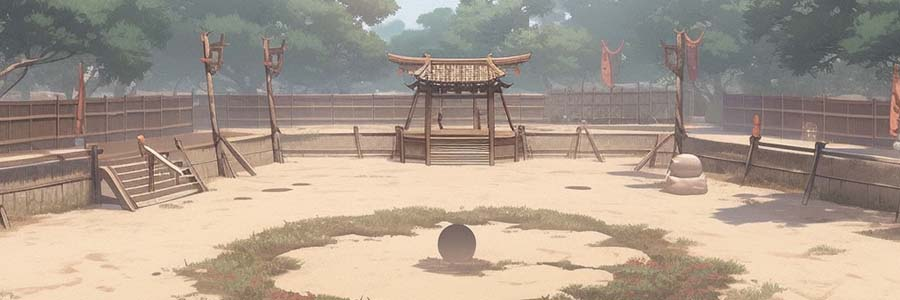
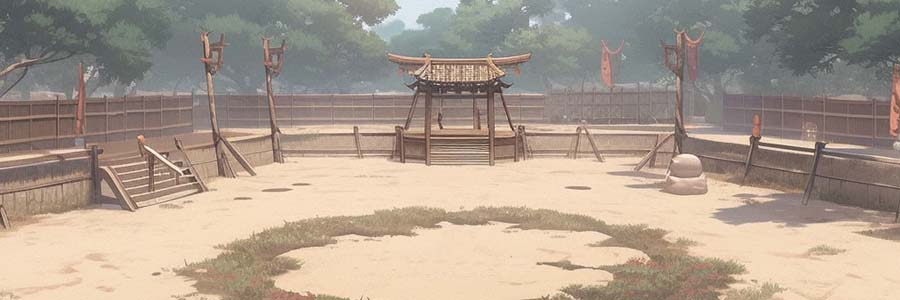
WIP

Changed region(s): [[0.4356, 0.75, 0.5911, 0.93]]

diff --git a/db/migrations/20231222051430_a_i_update_migration.php b/db/migrations/20231222051430_a_i_update_migration.php
@@ -80,6 +80,12 @@ final class AIUpdateMigration extends AbstractMigration
             (3, 600, 'Bloodline Mystic', 1.00, 50, 0.65, 0.65, 0.65, 0.40, 0.40, 0.00, 0.00, 0.00, '[{\"name\":\"Into the Mirror World\",\"battle_text\":\"Shimmering fragments trail [opponent]&#039;s hands as they open a reflective portal before them, swirling with iridescent colors. [player] is momentarily dazzled as they&#039;re drawn into the mirror realm, a twisted reflected of reality where [opponent]&#039;s strength is amplified as [player]&#039;s chakra is slowly drained by the countless mirrors that surround them.\",\"power\":\"4\",\"cooldown\":\"4\",\"jutsu_type\":\"ninjutsu\",\"use_type\":\"indirect\",\"effect\":\"offense_nerf\",\"effect_amount\":\"42\",\"effect_length\":\"2\",\"effect2\":\"ninjutsu_boost\",\"effect2_amount\":\"83\",\"effect2_length\":\"2\"},{\"name\":\"Self Reflection\",\"battle_text\":\"[opponent] conjures an ethereal mirror which flawlessly reflects [player]&#039;s attack, fracturing into a thousand shards that scatter violently. From the glittering light forms an identical copy of [player], mirroring their every move and blurring the lines between reality and illusion.\",\"power\":\"2.5\",\"cooldown\":\"4\",\"jutsu_type\":\"ninjutsu\",\"use_type\":\"indirect\",\"effect\":\"reflect\",\"effect_amount\":\"83\",\"effect_length\":\"1\",\"effect2\":\"none\",\"effect2_amount\":\"0\",\"effect2_length\":\"0\"},{\"name\":\"Ethereal Shards\",\"battle_text\":\"[opponent] snaps their fingers, causing the air to fracture and ripple. With a flourish, the distortion shatters into countless ethereal shards, hanging momentarily in the air before surging toward [player] with unerring precision.\",\"power\":\"2\",\"cooldown\":\"0\",\"jutsu_type\":\"ninjutsu\",\"use_type\":\"projectile\",\"effect\":\"residual_damage\",\"effect_amount\":\"83\",\"effect_length\":\"1\",\"effect2\":\"none\",\"effect2_amount\":\"0\",\"effect2_length\":\"0\"}]', '', '', 50, 1, 'hard', 1, 0, 'images/ai_avatars/BloodlineMystic.png');
 
             -- Update table ai_opponents - Jonin Arena
+            INSERT INTO `ai_opponents` (`ai_id`, `rank`, `money`, `name`, `max_health`, `level`, `ninjutsu_skill`, `genjutsu_skill`, `taijutsu_skill`, `cast_speed`, `speed`, `strength`, `intelligence`, `willpower`, `moves`, `shop_jutsu`, `shop_jutsu_priority`, `battle_iq`, `scaling`, `difficulty_level`, `arena_enabled`, `is_patrol`, `avatar_link`) VALUES
+            (3412, 4, 450, 'Rival Jonin', 1.00, 51, 0.00, 0.00, 0.70, 0.00, 0.35, 0.00, 0.00, 0.00, '[]', '4, 59, 99, 103, 73, 72, 83, 82, 84, 77, 81', '59, 103, 77, 99', 50, 1, 'normal', 1, 0, 'images/ai_avatars/TaijutsuRivalJonin.png'),
+            (3413, 4, 450, 'Rival Jonin', 1.00, 51, 0.70, 0.00, 0.00, 0.35, 0.00, 0.00, 0.00, 0.00, '[]', '4, 60, 70, 75, 74, 67, 68, 97, 93, 69, 98', '60', 50, 1, 'normal', 1, 0, 'images/ai_avatars/NinjutsuRivalJonin.png'),
+            (3414, 4, 450, 'Rival Jonin', 1.00, 51, 0.00, 0.70, 0.00, 0.35, 0.00, 0.00, 0.00, 0.00, '[]', '4, 61, 85, 79, 80, 49, 78, 76, 86, 109', '61', 50, 1, 'normal', 1, 0, 'images/ai_avatars/GenjutsuRivalJonin.png'),
+            (3437, 4, 0, 'Training Dummy', 1.00, 51, 0.00, 0.00, 0.00, 0.00, 0.00, 0.00, 0.00, 0.00, '[{\"name\":\"\",\"battle_text\":\"[opponent] stares blankly at [player], remaining upright in spite of the pummeling it takes all too happily.\",\"power\":\"1\",\"cooldown\":\"0\",\"jutsu_type\":\"taijutsu\",\"use_type\":\"indirect\",\"effect\":\"none\",\"effect_amount\":\"0\",\"effect_length\":\"0\",\"effect2\":\"none\",\"effect2_amount\":\"0\",\"effect2_length\":\"0\"}]', '', '', 0, 1, 'easy', 1, 0, 'images/ai_avatars/TrainingDummy.png'),
+            (3427, 4, 900, 'Elemental Savant', 1.00, 100, 0.70, 0.70, 0.70, 0.40, 0.40, 0.00, 0.00, 0.00, '[{\"name\":\"Hellfire Rain\",\"battle_text\":\"Flames begin to flow between [opponent]&#039;s fingertips like a stream of energy, flowing with the grace of a gentle river. The pressure builds as droplets of liquid fire spray upward, falling as a destructive torrent that sets the battlefield ablaze.\",\"power\":\"4\",\"cooldown\":\"2\",\"jutsu_type\":\"ninjutsu\",\"use_type\":\"projectile\",\"element\":\"Fire\",\"effect\":\"vulnerability\",\"effect_amount\":\"17\",\"effect_length\":\"2\",\"effect2\":\"water_vulnerability\",\"effect2_amount\":\"42\",\"effect2_length\":\"1\"},{\"name\":\"Wispstorm\",\"battle_text\":\"[opponent] breaths life into a roaring typhoon that flickers and distorts the air around them, building into a towering cyclone that slams down from above at [player].\",\"power\":\"4\",\"cooldown\":\"2\",\"jutsu_type\":\"ninjutsu\",\"use_type\":\"projectile\",\"element\":\"Wind\",\"effect\":\"evasion_nerf\",\"effect_amount\":\"21\",\"effect_length\":\"2\",\"effect2\":\"fire_vulnerability\",\"effect2_amount\":\"42\",\"effect2_length\":\"1\"},{\"name\":\"Electrolash\",\"battle_text\":\"Bolts of lightning begin to swirl around [opponent] before arcing in a sudden whip-like motion at [player] as a thunderous crack echoes, fading gradually into dull hum.\",\"power\":\"4\",\"cooldown\":\"2\",\"jutsu_type\":\"ninjutsu\",\"use_type\":\"projectile\",\"element\":\"Lightning\",\"effect\":\"piercing\",\"effect_amount\":\"42\",\"effect_length\":\"0\",\"effect2\":\"wind_vulnerability\",\"effect2_amount\":\"42\",\"effect2_length\":\"1\"},{\"name\":\"Rumbling Steps\",\"battle_text\":\"With a stomp [opponent] sends ripples of lighting through the ground, causing jagged spires to erupt beneath [player]&#039;s feet. Each step [opponent] takes is accompanied by a rumbling thunder as more and more spires pierce from the earth.\",\"power\":\"4\",\"cooldown\":\"2\",\"jutsu_type\":\"ninjutsu\",\"use_type\":\"projectile\",\"element\":\"Earth\",\"effect\":\"resist_boost\",\"effect_amount\":\"25\",\"effect_length\":\"2\",\"effect2\":\"lightning_vulnerability\",\"effect2_amount\":\"42\",\"effect2_length\":\"1\"},{\"name\":\"Watery Grave\",\"battle_text\":\"Water flows around [opponent], forming a dense vortex that digs into the earth as it increases in speed. [player] is caught by surprise as the ground collapses beneath their feet, dragging them into the depths below.\",\"power\":\"4\",\"cooldown\":\"2\",\"jutsu_type\":\"ninjutsu\",\"use_type\":\"projectile\",\"element\":\"Water\",\"effect\":\"offense_nerf\",\"effect_amount\":\"25\",\"effect_length\":\"2\",\"effect2\":\"earth_vulnerability\",\"effect2_amount\":\"42\",\"effect2_length\":\"1\"}]', '', '', 75, 1, 'hard', 1, 0, 'images/ai_avatars/ElementalSavant.png');
 
             -- Update table ai_opponents - Patrols
         ");

diff --git a/admin/entity_constraints.php b/admin/entity_constraints.php
@@ -244,6 +244,18 @@ $constraints['ai'] = [
                 'input_type' => 'text',
                 'options' => [Jutsu::USE_TYPE_MELEE, Jutsu::USE_TYPE_PROJECTILE, Jutsu::USE_TYPE_BUFF, Jutsu::USE_TYPE_BARRIER, Jutsu::USE_TYPE_INDIRECT],
             ],
+            'element' => [
+                'data_type' => 'string',
+                'input_type' => 'text',
+                'options' => [
+                    Jutsu::ELEMENT_NONE,
+                    Jutsu::ELEMENT_FIRE,
+                    Jutsu::ELEMENT_EARTH,
+                    Jutsu::ELEMENT_WIND,
+                    Jutsu::ELEMENT_WATER,
+                    Jutsu::ELEMENT_LIGHTNING,
+                ],
+            ],
             'effect' => [
                 'data_type' => 'string',
                 'input_type' => 'text',

diff --git a/pages/arena.php b/pages/arena.php
@@ -10,7 +10,7 @@ function arena(): bool {
 	global $self_link;
 
     $fight_timer = System::ARENA_COOLDOWN;
-    $arena_background = 'images/battle_backgrounds/Arena.jpg';
+    $arena_background = 'images/battle_backgrounds/FightingGrounds.jpg';
 
 	if($player->exam_stage > 0) {
 		$system->message("You cannot access this page during the exam!");
